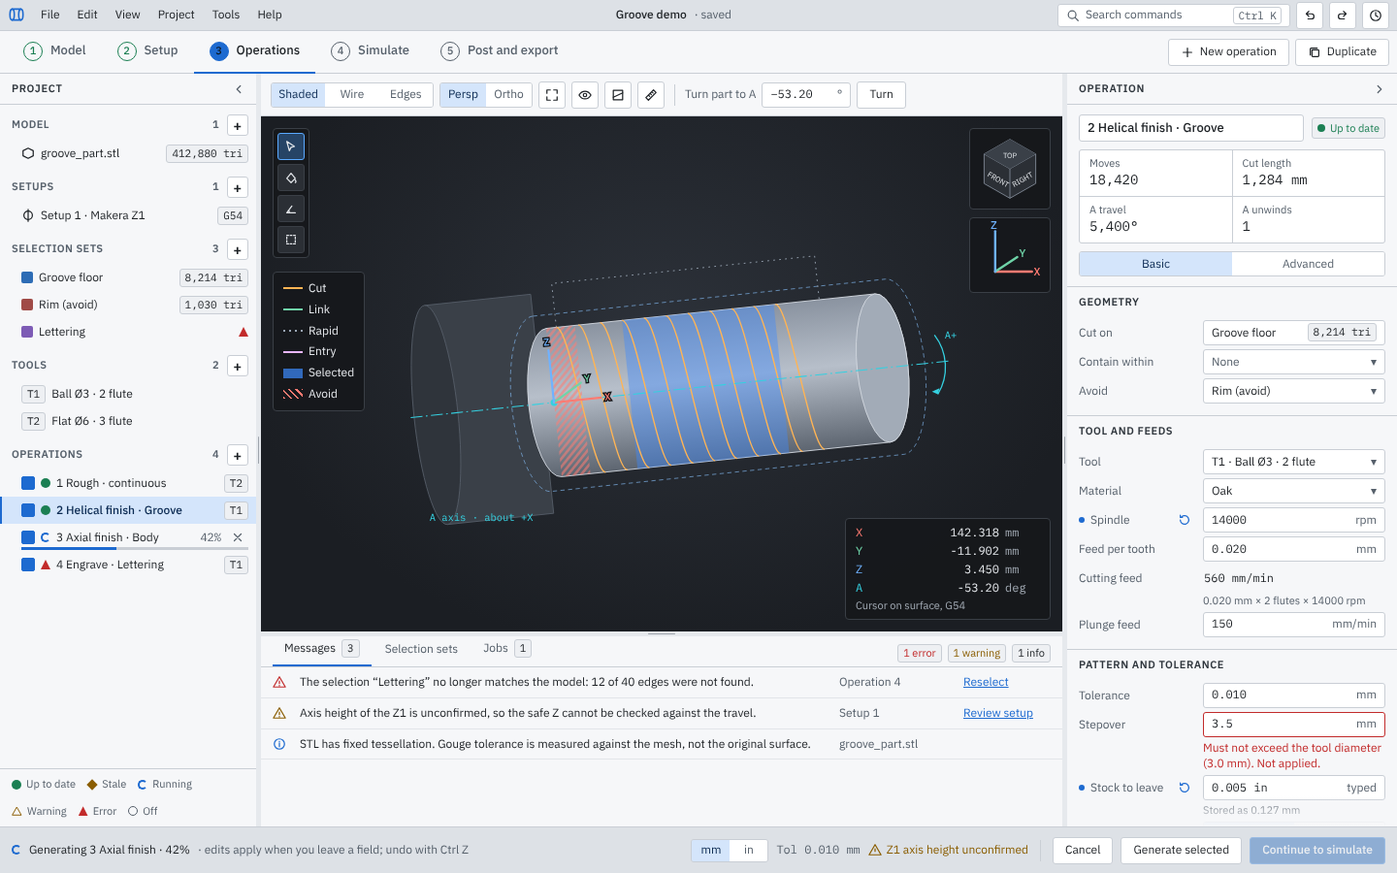
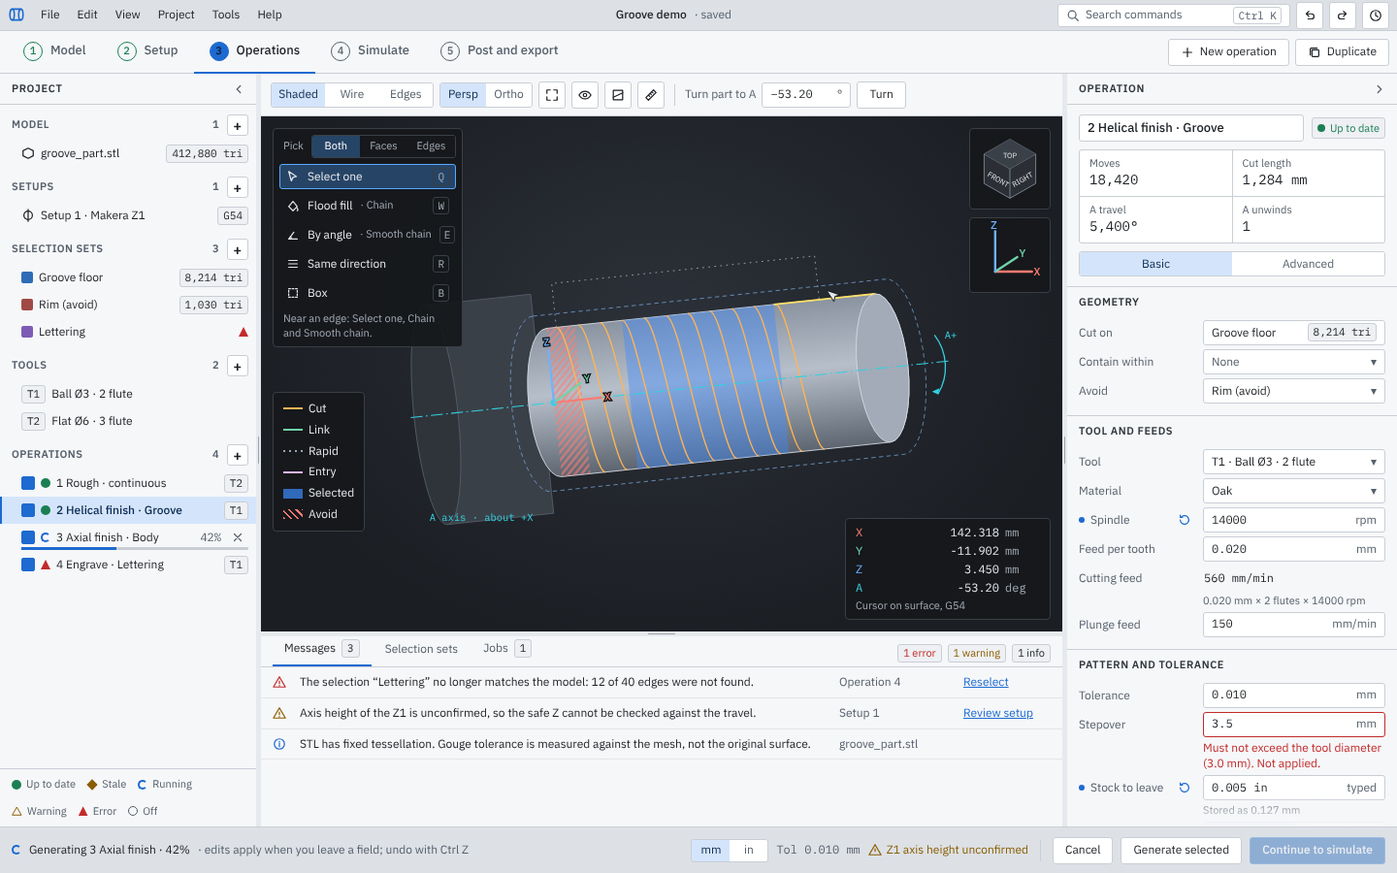
Lane X3: re-render the Operations and held-region boards (OI-342)
Step 1 of lane X3 (decision 0114 section E). Main.dc.html (images 03,
13 and 14): the selection tools box gains the Pick filter (Both, Faces,
Edges), Same direction and the edge tools Chain and Smooth chain
(decision 0066); the path legend sits below it and collapses to a
button when the view is under 480 pixels high, as at 1366 x 768
(section 7.2); a hovered edge is drawn 2 pixels wide in yellow.
HeldRegionsView.dc.html (image 17): the selected outline is 3 pixels and
the hovered one 2, the OI-341 scale of section 7.5; the tooltip gives
both diameters with their unit.

Claude-Session: https://claude.ai/code/session_01TGXwiwagyLB73ppJCBgTn2

diff --git a/docs/ui-design/mockups/source/HeldRegionsView.dc.html b/docs/ui-design/mockups/source/HeldRegionsView.dc.html
@@ -34,18 +34,18 @@ body{margin:0}
 </style>
 </helmet>
 <div class="app">
-  <div class="hd"><b>Held regions and tabs in the view</b><span class="mu">Example data (Groove demo). The viewport is dark in both themes. Section 7.5; the warning is section 11.7.</span></div>
+  <div class="hd"><b>Held regions and tabs in the view</b><span class="mu">Example data (Groove demo). The viewport is dark in both themes. Section 7.5; the warning is section 11.7. Widths: lines 1 px, outlines 1.5, hovered 2, selected 3.</span></div>
   <div class="pane" style="left:16px;top:56px;width:468px;height:384px"><div class="pt">SETUP · SHADED, HELD REGION SELECTED</div><svg viewBox="0 0 468 316" width="468" height="316" role="img" aria-label="Held region: translucent violet, cross-hatched, solid outline; selected with the accent outline. Tabs: opaque sand, dark outline."><defs>
 <pattern id="hatch" width="6" height="6" patternUnits="userSpaceOnUse"><path d="M0 0L6 6M6 0L0 6" stroke="#9d8df1" stroke-width="1"/></pattern>
 <linearGradient id="partg" x1="0" y1="0" x2="0" y2="1"><stop offset="0" stop-color="#cfd5dd"/><stop offset=".45" stop-color="#b7bfca"/><stop offset="1" stop-color="#6c7480"/></linearGradient>
 <linearGradient id="sand" x1="0" y1="0" x2="0" y2="1"><stop offset="0" stop-color="#ead2a6"/><stop offset=".45" stop-color="#d8b98a"/><stop offset="1" stop-color="#8f7a58"/></linearGradient>
 <linearGradient id="dev" x1="0" y1="0" x2="1" y2="0"><stop offset="0" stop-color="#9aa0a8"/><stop offset=".35" stop-color="#9aa0a8"/><stop offset=".42" stop-color="#b9d6ff"/><stop offset=".55" stop-color="#9aa0a8"/><stop offset=".78" stop-color="#9aa0a8"/><stop offset=".84" stop-color="#3f78d1"/><stop offset=".9" stop-color="#9aa0a8"/></linearGradient>
-</defs><path d="M60 150H558" stroke="#35d0e0" stroke-dasharray="14 4 2 4" stroke-width="1.2"/><rect x="44.0" y="40.0" width="70" height="34" fill="#3a4048" stroke="#5d6672"/><rect x="44.0" y="226.0" width="70" height="34" fill="#3a4048" stroke="#5d6672"/><rect x="34.0" y="90" width="56" height="120" fill="#3a4048" stroke="#5d6672"/><path d="M90.0 59.0L370.0 59.0L370.0 241.0L90.0 241.0Z" fill="rgba(90,169,255,.05)" stroke="#7fb4ea" stroke-width="1.2" stroke-dasharray="5 4" /><ellipse cx="370.0" cy="150" rx="25.5" ry="91.0" fill="rgba(90,169,255,.05)" stroke="#7fb4ea" stroke-width="1.2" stroke-dasharray="5 4"/><path d="M90.0 59.0L132.0 59.0L132.0 241.0L90.0 241.0Z" fill="rgba(157,141,241,.35)" stroke="none" stroke-width="0" /><ellipse cx="132.0" cy="150" rx="25.5" ry="91.0" fill="rgba(157,141,241,.35)" stroke="none" stroke-width="0"/><path d="M90.0 59.0L132.0 59.0L132.0 241.0L90.0 241.0Z" fill="url(#hatch)" stroke="#9d8df1" stroke-width="1.5" /><ellipse cx="132.0" cy="150" rx="25.5" ry="91.0" fill="url(#hatch)" stroke="#9d8df1" stroke-width="1.5"/><path d="M90.0 59.0L132.0 59.0L132.0 241.0L90.0 241.0Z" fill="none" stroke="#5aa9ff" stroke-width="2.5" /><path d="M132.0 80.0L146.0 115.0L146.0 185.0L132.0 220.0Z" fill="url(#sand)" stroke="#15171a" stroke-width="1.5" /><ellipse cx="146.0" cy="150" rx="9.8" ry="35.0" fill="url(#sand)" stroke="#15171a" stroke-width="1.5"/><path d="M314.0 115.0L370.0 80.0L370.0 220.0L314.0 185.0Z" fill="url(#sand)" stroke="#15171a" stroke-width="1.5" /><ellipse cx="370.0" cy="150" rx="19.6" ry="70.0" fill="url(#sand)" stroke="#15171a" stroke-width="1.5"/><path d="M146.0 66.0L314.0 66.0L314.0 234.0L146.0 234.0Z" fill="url(#partg)" stroke="#d3d9e0" stroke-width="1" /><ellipse cx="314.0" cy="150" rx="23.5" ry="84.0" fill="url(#partg)" stroke="#d3d9e0" stroke-width="1"/><text x="86.0" y="37.0" fill="#5aa9ff" font-size="12" font-family="IBM Plex Mono">Held region at the start (selected)</text><text x="328.0" y="269.0" fill="#d8b98a" font-size="12" font-family="IBM Plex Mono">Tab 2</text><text x="118.0" y="269.0" fill="#d8b98a" font-size="12" font-family="IBM Plex Mono">Tab 1</text><g transform="translate(12 292)" font-size="12" font-family="IBM Plex Sans" fill="#a3abb5"><rect x="0" y="0" width="12" height="12" fill="rgba(157,141,241,.35)"/><rect x="0" y="0" width="12" height="12" fill="url(#hatch)" stroke="#9d8df1" stroke-width="1.5"/><text x="18" y="10">Held region</text><rect x="106" y="0" width="12" height="12" fill="#d8b98a" stroke="#15171a" stroke-width="1.5"/><text x="124" y="10">Tab</text><path d="M168 6H190" stroke="#7fb4ea" stroke-dasharray="4 3" stroke-width="2"/><text x="196" y="10">Stock</text><path d="M248 6H270" stroke="#35d0e0" stroke-dasharray="8 3 2 3" stroke-width="2"/><text x="276" y="10">Rotary axis</text></g></svg><div class="pc">Held region: translucent violet, cross-hatched, solid outline; selected with the accent outline. Tabs: opaque sand, dark outline.</div></div><div class="pane" style="left:500px;top:56px;width:468px;height:384px"><div class="pt">OPERATIONS · POINTING AT TAB 2</div><svg viewBox="0 0 468 316" width="468" height="316" role="img" aria-label="Hover outlines the whole solid in yellow and opens its tooltip. The path legend lists the two roles after Avoid."><defs>
+</defs><path d="M60 150H558" stroke="#35d0e0" stroke-dasharray="14 4 2 4" stroke-width="1.2"/><rect x="44.0" y="40.0" width="70" height="34" fill="#3a4048" stroke="#5d6672"/><rect x="44.0" y="226.0" width="70" height="34" fill="#3a4048" stroke="#5d6672"/><rect x="34.0" y="90" width="56" height="120" fill="#3a4048" stroke="#5d6672"/><path d="M90.0 59.0L370.0 59.0L370.0 241.0L90.0 241.0Z" fill="rgba(90,169,255,.05)" stroke="#7fb4ea" stroke-width="1.2" stroke-dasharray="5 4" /><ellipse cx="370.0" cy="150" rx="25.5" ry="91.0" fill="rgba(90,169,255,.05)" stroke="#7fb4ea" stroke-width="1.2" stroke-dasharray="5 4"/><path d="M90.0 59.0L132.0 59.0L132.0 241.0L90.0 241.0Z" fill="rgba(157,141,241,.35)" stroke="none" stroke-width="0" /><ellipse cx="132.0" cy="150" rx="25.5" ry="91.0" fill="rgba(157,141,241,.35)" stroke="none" stroke-width="0"/><path d="M90.0 59.0L132.0 59.0L132.0 241.0L90.0 241.0Z" fill="url(#hatch)" stroke="#9d8df1" stroke-width="1.5" /><ellipse cx="132.0" cy="150" rx="25.5" ry="91.0" fill="url(#hatch)" stroke="#9d8df1" stroke-width="1.5"/><path d="M90.0 59.0L132.0 59.0L132.0 241.0L90.0 241.0Z" fill="none" stroke="#5aa9ff" stroke-width="3" /><path d="M132.0 80.0L146.0 115.0L146.0 185.0L132.0 220.0Z" fill="url(#sand)" stroke="#15171a" stroke-width="1.5" /><ellipse cx="146.0" cy="150" rx="9.8" ry="35.0" fill="url(#sand)" stroke="#15171a" stroke-width="1.5"/><path d="M314.0 115.0L370.0 80.0L370.0 220.0L314.0 185.0Z" fill="url(#sand)" stroke="#15171a" stroke-width="1.5" /><ellipse cx="370.0" cy="150" rx="19.6" ry="70.0" fill="url(#sand)" stroke="#15171a" stroke-width="1.5"/><path d="M146.0 66.0L314.0 66.0L314.0 234.0L146.0 234.0Z" fill="url(#partg)" stroke="#d3d9e0" stroke-width="1" /><ellipse cx="314.0" cy="150" rx="23.5" ry="84.0" fill="url(#partg)" stroke="#d3d9e0" stroke-width="1"/><text x="86.0" y="37.0" fill="#5aa9ff" font-size="12" font-family="IBM Plex Mono">Held region at the start (selected)</text><text x="328.0" y="269.0" fill="#d8b98a" font-size="12" font-family="IBM Plex Mono">Tab 2</text><text x="118.0" y="269.0" fill="#d8b98a" font-size="12" font-family="IBM Plex Mono">Tab 1</text><g transform="translate(12 292)" font-size="12" font-family="IBM Plex Sans" fill="#a3abb5"><rect x="0" y="0" width="12" height="12" fill="rgba(157,141,241,.35)"/><rect x="0" y="0" width="12" height="12" fill="url(#hatch)" stroke="#9d8df1" stroke-width="1.5"/><text x="18" y="10">Held region</text><rect x="106" y="0" width="12" height="12" fill="#d8b98a" stroke="#15171a" stroke-width="1.5"/><text x="124" y="10">Tab</text><path d="M168 6H190" stroke="#7fb4ea" stroke-dasharray="4 3" stroke-width="2"/><text x="196" y="10">Stock</text><path d="M248 6H270" stroke="#35d0e0" stroke-dasharray="8 3 2 3" stroke-width="2"/><text x="276" y="10">Rotary axis</text></g></svg><div class="pc">Held region: translucent violet, cross-hatched, solid outline; selected with the accent outline. Tabs: opaque sand, dark outline.</div></div><div class="pane" style="left:500px;top:56px;width:468px;height:384px"><div class="pt">OPERATIONS · POINTING AT TAB 2</div><svg viewBox="0 0 468 316" width="468" height="316" role="img" aria-label="Hover outlines the whole solid in yellow and opens its tooltip. The path legend lists the two roles after Avoid."><defs>
 <pattern id="hatch" width="6" height="6" patternUnits="userSpaceOnUse"><path d="M0 0L6 6M6 0L0 6" stroke="#9d8df1" stroke-width="1"/></pattern>
 <linearGradient id="partg" x1="0" y1="0" x2="0" y2="1"><stop offset="0" stop-color="#cfd5dd"/><stop offset=".45" stop-color="#b7bfca"/><stop offset="1" stop-color="#6c7480"/></linearGradient>
 <linearGradient id="sand" x1="0" y1="0" x2="0" y2="1"><stop offset="0" stop-color="#ead2a6"/><stop offset=".45" stop-color="#d8b98a"/><stop offset="1" stop-color="#8f7a58"/></linearGradient>
 <linearGradient id="dev" x1="0" y1="0" x2="1" y2="0"><stop offset="0" stop-color="#9aa0a8"/><stop offset=".35" stop-color="#9aa0a8"/><stop offset=".42" stop-color="#b9d6ff"/><stop offset=".55" stop-color="#9aa0a8"/><stop offset=".78" stop-color="#9aa0a8"/><stop offset=".84" stop-color="#3f78d1"/><stop offset=".9" stop-color="#9aa0a8"/></linearGradient>
-</defs><path d="M110 150H608" stroke="#35d0e0" stroke-dasharray="14 4 2 4" stroke-width="1.2"/><path d="M140.0 59.0L420.0 59.0L420.0 241.0L140.0 241.0Z" fill="rgba(90,169,255,.05)" stroke="#7fb4ea" stroke-width="1.2" stroke-dasharray="5 4" /><ellipse cx="420.0" cy="150" rx="25.5" ry="91.0" fill="rgba(90,169,255,.05)" stroke="#7fb4ea" stroke-width="1.2" stroke-dasharray="5 4"/><path d="M140.0 59.0L182.0 59.0L182.0 241.0L140.0 241.0Z" fill="rgba(157,141,241,.35)" stroke="none" stroke-width="0" /><ellipse cx="182.0" cy="150" rx="25.5" ry="91.0" fill="rgba(157,141,241,.35)" stroke="none" stroke-width="0"/><path d="M140.0 59.0L182.0 59.0L182.0 241.0L140.0 241.0Z" fill="url(#hatch)" stroke="#9d8df1" stroke-width="1.5" /><ellipse cx="182.0" cy="150" rx="25.5" ry="91.0" fill="url(#hatch)" stroke="#9d8df1" stroke-width="1.5"/><path d="M182.0 80.0L196.0 115.0L196.0 185.0L182.0 220.0Z" fill="url(#sand)" stroke="#15171a" stroke-width="1.5" /><ellipse cx="196.0" cy="150" rx="9.8" ry="35.0" fill="url(#sand)" stroke="#15171a" stroke-width="1.5"/><path d="M364.0 115.0L420.0 80.0L420.0 220.0L364.0 185.0Z" fill="url(#sand)" stroke="#15171a" stroke-width="1.5" /><ellipse cx="420.0" cy="150" rx="19.6" ry="70.0" fill="url(#sand)" stroke="#15171a" stroke-width="1.5"/><path d="M364.0 115.0L420.0 80.0L420.0 220.0L364.0 185.0Z" fill="none" stroke="#ffe066" stroke-width="2.5" /><ellipse cx="420.0" cy="150" rx="19.6" ry="70.0" fill="none" stroke="#ffe066" stroke-width="2.5"/><path d="M196.0 66.0L364.0 66.0L364.0 234.0L196.0 234.0Z" fill="url(#partg)" stroke="#d3d9e0" stroke-width="1" /><ellipse cx="364.0" cy="150" rx="23.5" ry="84.0" fill="url(#partg)" stroke="#d3d9e0" stroke-width="1"/><path d="M203.0 63.0C209.0 63.0 213.0 237.0 219.0 237.0M217.0 63.0C223.0 63.0 227.0 237.0 233.0 237.0M231.0 63.0C237.0 63.0 241.0 237.0 247.0 237.0M245.0 63.0C251.0 63.0 255.0 237.0 261.0 237.0M259.0 63.0C265.0 63.0 269.0 237.0 275.0 237.0M273.0 63.0C279.0 63.0 283.0 237.0 289.0 237.0M287.0 63.0C293.0 63.0 297.0 237.0 303.0 237.0M301.0 63.0C307.0 63.0 311.0 237.0 317.0 237.0M315.0 63.0C321.0 63.0 325.0 237.0 331.0 237.0M329.0 63.0C335.0 63.0 339.0 237.0 345.0 237.0M343.0 63.0C349.0 63.0 353.0 237.0 359.0 237.0M357.0 63.0C363.0 63.0 367.0 237.0 373.0 237.0" fill="none" stroke="#ffb454" stroke-width="1.3"/><g transform="translate(10 10)"><rect width="112" height="150" rx="3" fill="rgba(21,23,26,.88)" stroke="#383d45"/><g font-size="11" font-family="IBM Plex Sans" fill="#c3c9d1"><path d="M8 14H26" stroke="#ffb454" stroke-width="2"/><text x="32" y="18">Cut</text><path d="M8 31H26" stroke="#6fd3a8" stroke-width="1.2"/><text x="32" y="35">Link</text><path d="M8 48H26" stroke="#9aa6b5" stroke-dasharray="2 3" stroke-width="2"/><text x="32" y="52">Rapid</text><path d="M8 65H26" stroke="#e8b6ff" stroke-width="2"/><text x="32" y="69">Entry</text><rect x="8" y="77" width="18" height="10" fill="rgba(61,139,255,.4)"/><text x="32" y="86">Selected</text><rect x="8" y="94" width="18" height="10" fill="none" stroke="#ff7b72"/><text x="32" y="103">Avoid</text><rect x="8" y="111" width="18" height="10" fill="rgba(157,141,241,.35)"/><rect x="8" y="111" width="18" height="10" fill="url(#hatch)" stroke="#9d8df1" stroke-width="1.2"/><text x="32" y="120">Held region</text><rect x="8" y="128" width="18" height="10" fill="#d8b98a" stroke="#15171a" stroke-width="1.2"/><text x="32" y="137">Tab</text></g></g><g transform="translate(168 253.0)"><rect width="288" height="40" rx="4" fill="#f4f6f8"/><text x="10" y="17" font-size="12" font-family="IBM Plex Sans" fill="#1d2125" font-weight="600">Tab 2 · frustum · default</text><text x="10" y="32" font-size="11" font-family="IBM Plex Mono" fill="#1d2125">X 24.000 to 32.000 mm · Ø 10.000 to 20.000</text></g></svg><div class="pc">Hover outlines the whole solid in yellow and opens its tooltip. The path legend lists the two roles after Avoid.</div></div><div class="pane" style="left:16px;top:456px;width:468px;height:384px"><div class="pt">OPERATIONS · PICKING</div><svg viewBox="0 0 468 316" width="468" height="316" role="img" aria-label="While picking, held regions and tabs are outlines only and cannot be picked; clicks go to the part."><defs>
+</defs><path d="M110 150H608" stroke="#35d0e0" stroke-dasharray="14 4 2 4" stroke-width="1.2"/><path d="M140.0 59.0L420.0 59.0L420.0 241.0L140.0 241.0Z" fill="rgba(90,169,255,.05)" stroke="#7fb4ea" stroke-width="1.2" stroke-dasharray="5 4" /><ellipse cx="420.0" cy="150" rx="25.5" ry="91.0" fill="rgba(90,169,255,.05)" stroke="#7fb4ea" stroke-width="1.2" stroke-dasharray="5 4"/><path d="M140.0 59.0L182.0 59.0L182.0 241.0L140.0 241.0Z" fill="rgba(157,141,241,.35)" stroke="none" stroke-width="0" /><ellipse cx="182.0" cy="150" rx="25.5" ry="91.0" fill="rgba(157,141,241,.35)" stroke="none" stroke-width="0"/><path d="M140.0 59.0L182.0 59.0L182.0 241.0L140.0 241.0Z" fill="url(#hatch)" stroke="#9d8df1" stroke-width="1.5" /><ellipse cx="182.0" cy="150" rx="25.5" ry="91.0" fill="url(#hatch)" stroke="#9d8df1" stroke-width="1.5"/><path d="M182.0 80.0L196.0 115.0L196.0 185.0L182.0 220.0Z" fill="url(#sand)" stroke="#15171a" stroke-width="1.5" /><ellipse cx="196.0" cy="150" rx="9.8" ry="35.0" fill="url(#sand)" stroke="#15171a" stroke-width="1.5"/><path d="M364.0 115.0L420.0 80.0L420.0 220.0L364.0 185.0Z" fill="url(#sand)" stroke="#15171a" stroke-width="1.5" /><ellipse cx="420.0" cy="150" rx="19.6" ry="70.0" fill="url(#sand)" stroke="#15171a" stroke-width="1.5"/><path d="M364.0 115.0L420.0 80.0L420.0 220.0L364.0 185.0Z" fill="none" stroke="#ffe066" stroke-width="2" /><ellipse cx="420.0" cy="150" rx="19.6" ry="70.0" fill="none" stroke="#ffe066" stroke-width="2"/><path d="M196.0 66.0L364.0 66.0L364.0 234.0L196.0 234.0Z" fill="url(#partg)" stroke="#d3d9e0" stroke-width="1" /><ellipse cx="364.0" cy="150" rx="23.5" ry="84.0" fill="url(#partg)" stroke="#d3d9e0" stroke-width="1"/><path d="M203.0 63.0C209.0 63.0 213.0 237.0 219.0 237.0M217.0 63.0C223.0 63.0 227.0 237.0 233.0 237.0M231.0 63.0C237.0 63.0 241.0 237.0 247.0 237.0M245.0 63.0C251.0 63.0 255.0 237.0 261.0 237.0M259.0 63.0C265.0 63.0 269.0 237.0 275.0 237.0M273.0 63.0C279.0 63.0 283.0 237.0 289.0 237.0M287.0 63.0C293.0 63.0 297.0 237.0 303.0 237.0M301.0 63.0C307.0 63.0 311.0 237.0 317.0 237.0M315.0 63.0C321.0 63.0 325.0 237.0 331.0 237.0M329.0 63.0C335.0 63.0 339.0 237.0 345.0 237.0M343.0 63.0C349.0 63.0 353.0 237.0 359.0 237.0M357.0 63.0C363.0 63.0 367.0 237.0 373.0 237.0" fill="none" stroke="#ffb454" stroke-width="1.3"/><g transform="translate(10 10)"><rect width="112" height="150" rx="3" fill="rgba(21,23,26,.88)" stroke="#383d45"/><g font-size="11" font-family="IBM Plex Sans" fill="#c3c9d1"><path d="M8 14H26" stroke="#ffb454" stroke-width="2"/><text x="32" y="18">Cut</text><path d="M8 31H26" stroke="#6fd3a8" stroke-width="1.2"/><text x="32" y="35">Link</text><path d="M8 48H26" stroke="#9aa6b5" stroke-dasharray="2 3" stroke-width="2"/><text x="32" y="52">Rapid</text><path d="M8 65H26" stroke="#e8b6ff" stroke-width="2"/><text x="32" y="69">Entry</text><rect x="8" y="77" width="18" height="10" fill="rgba(61,139,255,.4)"/><text x="32" y="86">Selected</text><rect x="8" y="94" width="18" height="10" fill="none" stroke="#ff7b72"/><text x="32" y="103">Avoid</text><rect x="8" y="111" width="18" height="10" fill="rgba(157,141,241,.35)"/><rect x="8" y="111" width="18" height="10" fill="url(#hatch)" stroke="#9d8df1" stroke-width="1.2"/><text x="32" y="120">Held region</text><rect x="8" y="128" width="18" height="10" fill="#d8b98a" stroke="#15171a" stroke-width="1.2"/><text x="32" y="137">Tab</text></g></g><g transform="translate(138 253.0)"><rect width="322" height="40" rx="4" fill="#f4f6f8"/><text x="10" y="17" font-size="12" font-family="IBM Plex Sans" fill="#1d2125" font-weight="600">Tab 2 · frustum · default</text><text x="10" y="32" font-size="11" font-family="IBM Plex Mono" fill="#1d2125">X 24.000 to 32.000 mm · Ø 10.000 to Ø 20.000 mm</text></g></svg><div class="pc">Hover outlines the whole solid in yellow and opens its tooltip. The path legend lists the two roles after Avoid.</div></div><div class="pane" style="left:16px;top:456px;width:468px;height:384px"><div class="pt">OPERATIONS · PICKING</div><svg viewBox="0 0 468 316" width="468" height="316" role="img" aria-label="While picking, held regions and tabs are outlines only and cannot be picked; clicks go to the part."><defs>
 <pattern id="hatch" width="6" height="6" patternUnits="userSpaceOnUse"><path d="M0 0L6 6M6 0L0 6" stroke="#9d8df1" stroke-width="1"/></pattern>
 <linearGradient id="partg" x1="0" y1="0" x2="0" y2="1"><stop offset="0" stop-color="#cfd5dd"/><stop offset=".45" stop-color="#b7bfca"/><stop offset="1" stop-color="#6c7480"/></linearGradient>
 <linearGradient id="sand" x1="0" y1="0" x2="0" y2="1"><stop offset="0" stop-color="#ead2a6"/><stop offset=".45" stop-color="#d8b98a"/><stop offset="1" stop-color="#8f7a58"/></linearGradient>

diff --git a/docs/ui-design/mockups/source/Main.dc.html b/docs/ui-design/mockups/source/Main.dc.html
@@ -84,6 +84,15 @@ button{font:inherit;color:inherit;cursor:pointer}
 .vf .mu{color:#a3abb5}
 .vbtn{width:28px;height:28px;border:1px solid #3a3f46;background:#2b2f35;color:#e4e7eb;border-radius:3px;display:inline-flex;align-items:center;justify-content:center;padding:0}
 .vbtn.on{background:#264466;border-color:#5aa9ff}
+.vseg{display:flex;flex:1;border:1px solid #3a3f46;border-radius:3px;overflow:hidden;height:24px}
+.vseg span{flex:1;display:flex;align-items:center;justify-content:center;background:#16181b;color:#a3abb5;font-size:11px}
+.vseg span.on{background:#264466;color:#fff}
+.vrow{height:26px;display:flex;align-items:center;gap:8px;padding:0 6px;border:1px solid transparent;background:none;color:#e4e7eb;border-radius:3px;width:100%;text-align:left;white-space:nowrap}
+.vrow.on{background:#264466;border-color:#5aa9ff}
+.vrow small{color:#a3abb5;font-size:11px}
+.vrow .k{margin-left:auto;font-family:'IBM Plex Mono',monospace;font-size:11px;color:#a3abb5;border:1px solid #3a3f46;border-radius:3px;padding:0 4px;line-height:16px}
+.legbtn{display:none}
+@media (max-height:800px){.leg{display:none!important}.legbtn{display:inline-flex}}
 .dt{padding:0 12px;height:32px;flex:none;display:flex;align-items:flex-end;gap:2px;border-bottom:1px solid var(--ln);background:var(--p)}
 .dtab{padding:7px 12px;color:var(--mu);border-bottom:2px solid transparent;display:flex;gap:6px;align-items:center}
 .dtab.on{color:var(--tx);border-bottom-color:var(--ac)}
@@ -161,7 +170,7 @@ button{font:inherit;color:inherit;cursor:pointer}
         <button class="btn" title="Turn the part in the view (does not change the program)">Turn</button>
       </div>
       <div class="vp">
-        <svg viewBox="-80 0 916 608" width="100%" height="100%" role="img" aria-label="Part with helical finishing toolpath on the groove selection, rotary axis, and X, Y, Z axes at the work zero">
+        <svg viewBox="-80 0 916 608" width="100%" height="100%" role="img" aria-label="Part with helical finishing toolpath on the groove selection, a hovered edge in yellow, rotary axis, and X, Y, Z axes at the work zero">
           <defs>
             <pattern id="avoid" width="6" height="6" patternUnits="userSpaceOnUse" patternTransform="rotate(45)"><rect width="3" height="6" fill="#ff7b72" opacity=".55"/></pattern>
             <linearGradient id="body" x1="0" y1="0" x2="0" y2="1"><stop offset="0" stop-color="#8a93a0"/><stop offset=".45" stop-color="#b7bfca"/><stop offset="1" stop-color="#5d6570"/></linearGradient>
@@ -176,6 +185,8 @@ button{font:inherit;color:inherit;cursor:pointer}
             <rect x="250" y="232" width="34" height="176" fill="url(#avoid)"/>
             <path d="M262 232C278 232 286 408 302 408M288 232C304 232 312 408 328 408M314 232C330 232 338 408 354 408M340 232C356 232 364 408 380 408M366 232C382 232 390 408 406 408M392 232C408 232 416 408 432 408M418 232C434 232 442 408 458 408M444 232C460 232 468 408 484 408M470 232C486 232 494 408 510 408M496 232C512 232 520 408 536 408M522 232C538 232 546 408 562 408" fill="none" stroke="#ffb454" stroke-width="1.6"/>
             <path d="M262 232L262 180L574 180L574 232" fill="none" stroke="#9aa6b5" stroke-dasharray="2 5"/>
+            <path d="M520 232H640" stroke="#ffe066" stroke-width="2"/>
+            <path d="M584 222l7 14 2-6 6-1z" fill="#e4e7eb" stroke="#101215" stroke-width="1"/>
             <path d="M80 320H720" stroke="#35d0e0" stroke-dasharray="14 4 2 4" stroke-width="1.2"/>
             <circle cx="250" cy="320" r="4" fill="#35d0e0"/>
             <g stroke-width="2.5" stroke-linecap="round"><path d="M250 320H306" stroke="#ff7b72"/><path d="M250 320L284 300" stroke="#6fd3a8"/><path d="M250 320V258" stroke="#6fb2ff"/></g>
@@ -185,13 +196,17 @@ button{font:inherit;color:inherit;cursor:pointer}
           <text x="712" y="262" fill="#35d0e0" font-size="12" font-family="IBM Plex Mono">A+</text>
           <text x="104" y="478" fill="#35d0e0" font-size="12" font-family="IBM Plex Mono">A axis · about +X</text>
         </svg>
-        <div class="vf" style="left:12px;top:12px;padding:4px;display:flex;flex-direction:column;gap:4px">
-          <button class="vbtn on" aria-label="Select region" title="Select region (Q)"><svg class="ib" viewBox="0 0 16 16"><path d="M3 2l9 6-4 1-2 4z"/></svg></button>
-          <button class="vbtn" aria-label="Flood fill" title="Flood fill (W)"><svg class="ib" viewBox="0 0 16 16"><path d="M3 9l5-6 5 6-5 5zM13 11c1 1.5 1 2.5 0 3"/></svg></button>
-          <button class="vbtn" aria-label="Select by angle" title="Select by angle (E)"><svg class="ib" viewBox="0 0 16 16"><path d="M3 13h10M3 13l6-8M6 13a4 4 0 00-1-3"/></svg></button>
-          <button class="vbtn" aria-label="Box select" title="Box select (B)"><svg class="ib" viewBox="0 0 16 16"><rect x="3" y="3" width="10" height="10" stroke-dasharray="2 2"/></svg></button>
+        <div class="vf" style="left:12px;top:12px;padding:6px;width:196px;display:flex;flex-direction:column;gap:4px" role="toolbar" aria-label="Selection tools">
+          <div style="display:flex;align-items:center;gap:8px;padding:0 0 2px 4px"><span class="mu" style="font-size:11px">Pick</span><div class="vseg" role="radiogroup" aria-label="Pick"><span class="on" title="An edge when the pointer is near one, the surface otherwise">Both</span><span title="Only surfaces">Faces</span><span title="Only edges">Edges</span></div></div>
+          <button class="vrow on" title="Select one (Q)"><svg class="ib" viewBox="0 0 16 16"><path d="M3 2l9 6-4 1-2 4z"/></svg>Select one<span class="k">Q</span></button>
+          <button class="vrow" title="Flood fill (W); on an edge, Chain"><svg class="ib" viewBox="0 0 16 16"><path d="M3 9l5-6 5 6-5 5zM13 11c1 1.5 1 2.5 0 3"/></svg>Flood fill<small>· Chain</small><span class="k">W</span></button>
+          <button class="vrow" title="By angle (E); on an edge, Smooth chain"><svg class="ib" viewBox="0 0 16 16"><path d="M3 13h10M3 13l6-8M6 13a4 4 0 00-1-3"/></svg>By angle<small>· Smooth chain</small><span class="k">E</span></button>
+          <button class="vrow" title="Same direction (R); faces only"><svg class="ib" viewBox="0 0 16 16"><path d="M3 12h10M3 8h10M3 4h10"/></svg>Same direction<span class="k">R</span></button>
+          <button class="vrow" title="Box select (B)"><svg class="ib" viewBox="0 0 16 16"><rect x="3" y="3" width="10" height="10" stroke-dasharray="2 2"/></svg>Box<span class="k">B</span></button>
+          <span class="mu" style="font-size:11px;padding:2px 4px 0;white-space:normal;line-height:1.35">Near an edge: Select one, Chain and Smooth chain.</span>
         </div>
-        <div class="vf" style="left:12px;top:160px;padding:8px 10px;display:flex;flex-direction:column;gap:5px">
+        <button class="vf vbtn legbtn" style="left:12px;top:284px;width:auto;padding:0 10px;gap:6px;height:28px" aria-label="Path legend" title="Path legend"><svg width="20" height="8" aria-hidden="true"><path d="M0 4H20" stroke="#ffb454" stroke-width="2"/></svg>Legend</button>
+        <div class="vf leg" style="left:12px;top:284px;padding:8px 10px;display:flex;flex-direction:column;gap:5px">
           <span style="display:flex;align-items:center;gap:6px"><svg width="20" height="8" aria-hidden="true"><path d="M0 4H20" stroke="#ffb454" stroke-width="2"/></svg>Cut</span>
           <span style="display:flex;align-items:center;gap:6px"><svg width="20" height="8" aria-hidden="true"><path d="M0 4H20" stroke="#6fd3a8" stroke-width="2"/></svg>Link</span>
           <span style="display:flex;align-items:center;gap:6px"><svg width="20" height="8" aria-hidden="true"><path d="M0 4H20" stroke="#9aa6b5" stroke-dasharray="2 4" stroke-width="2"/></svg>Rapid</span>
